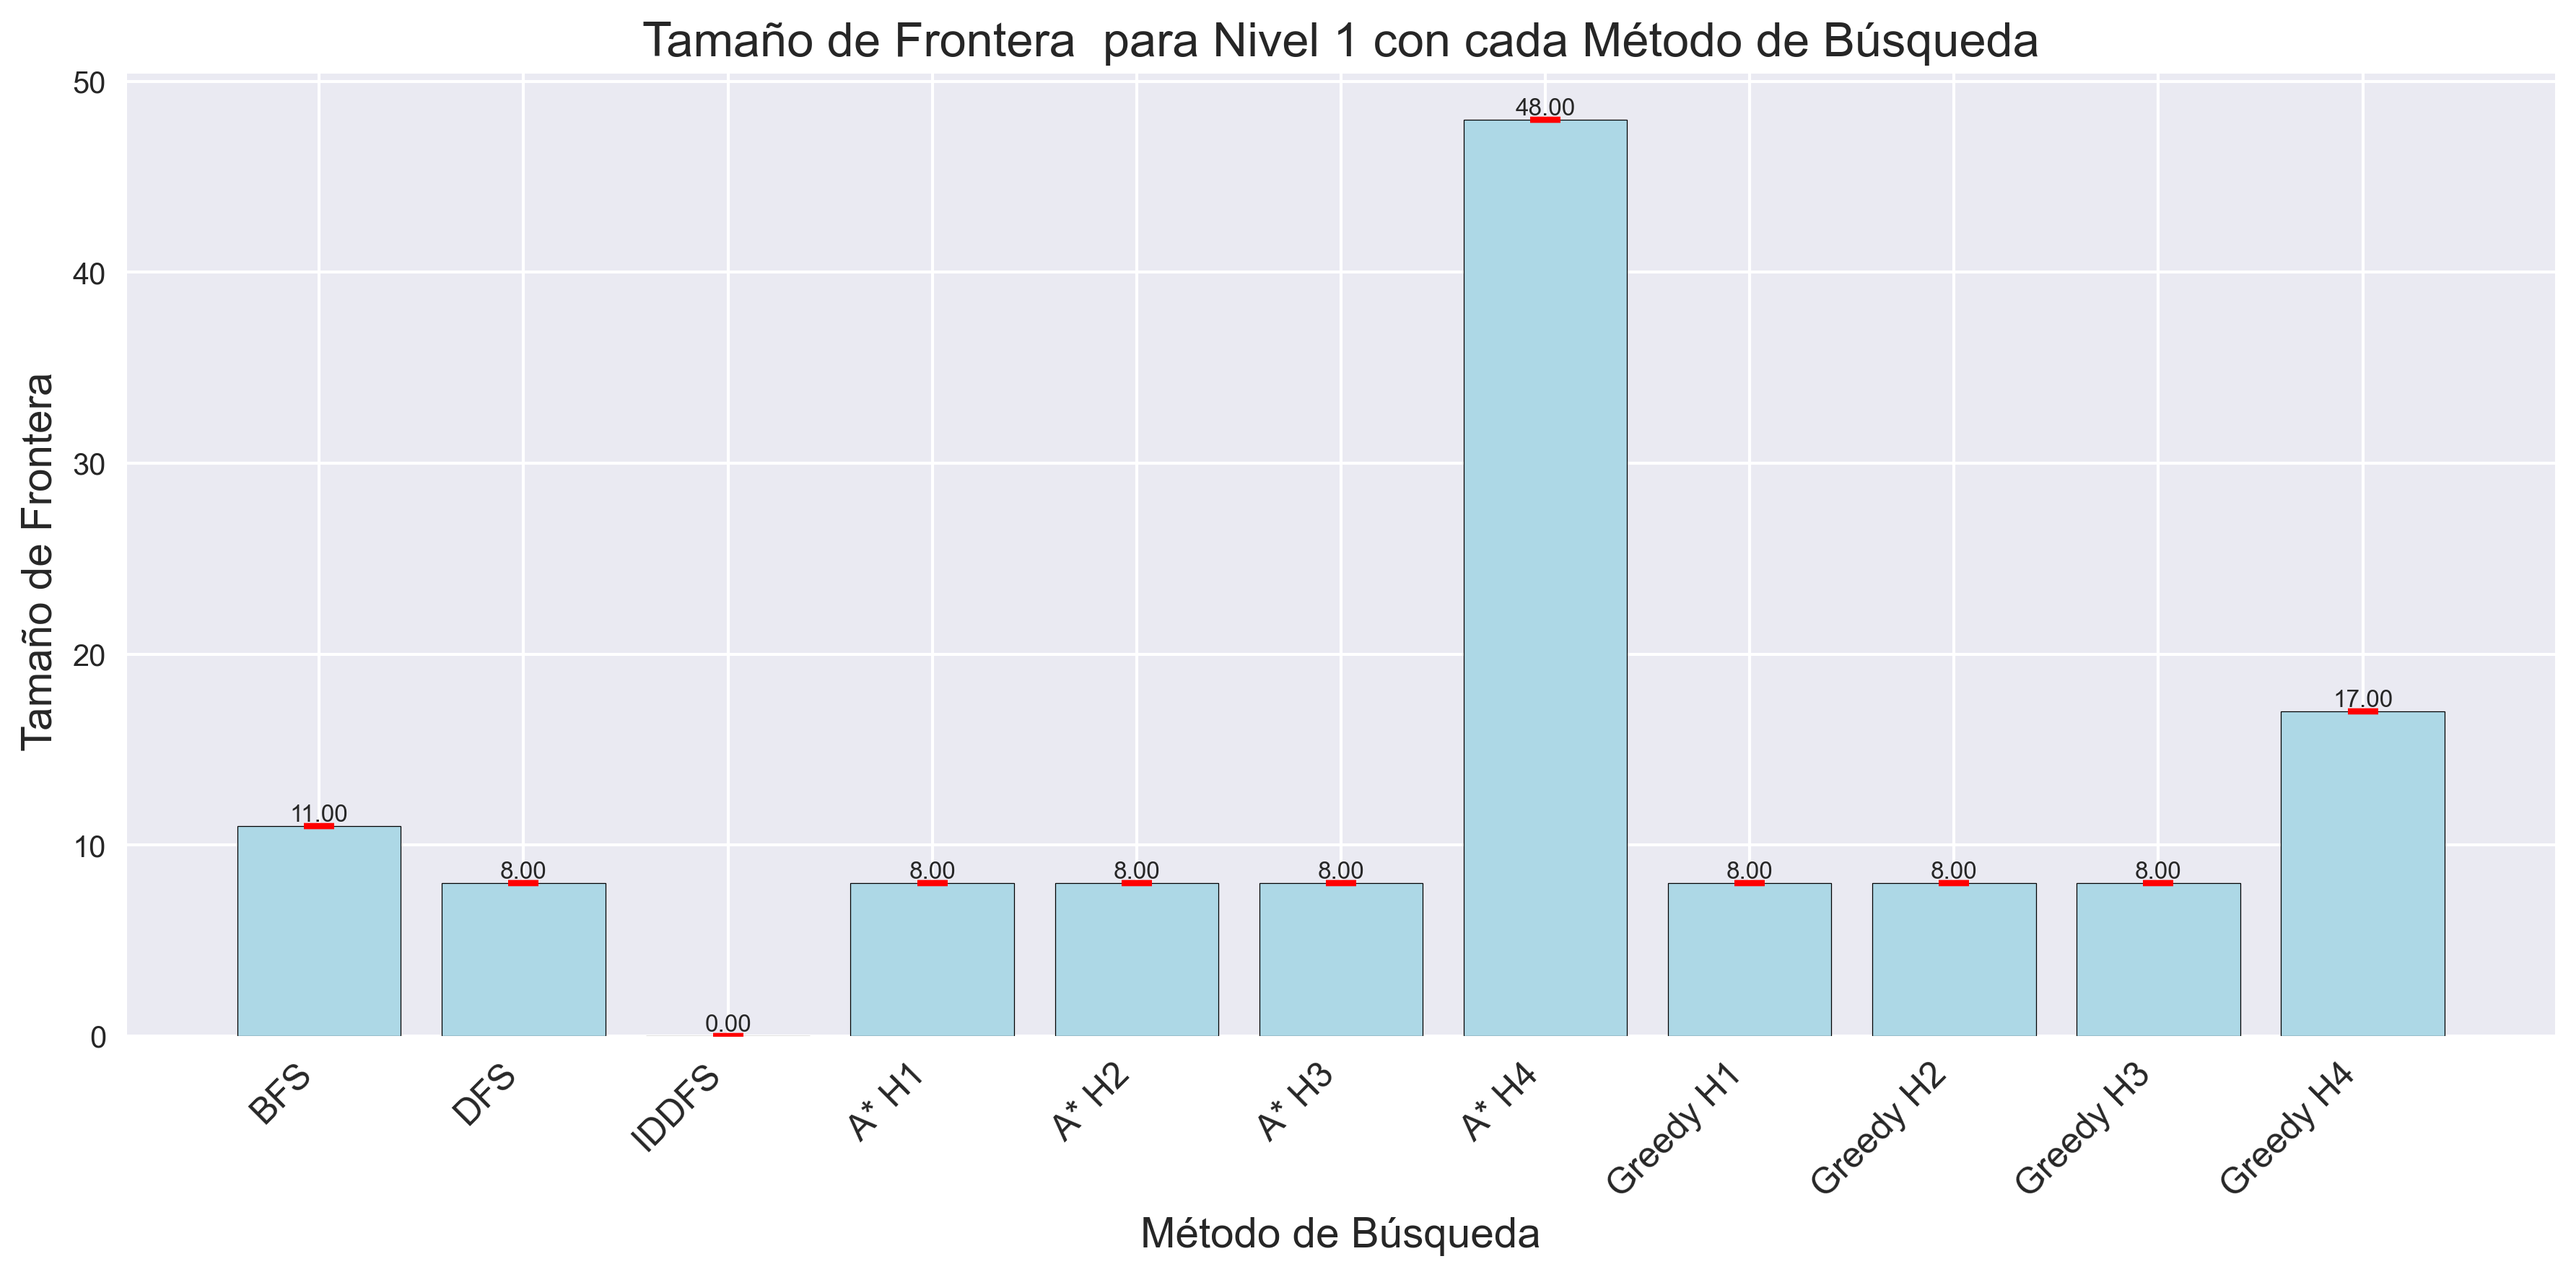
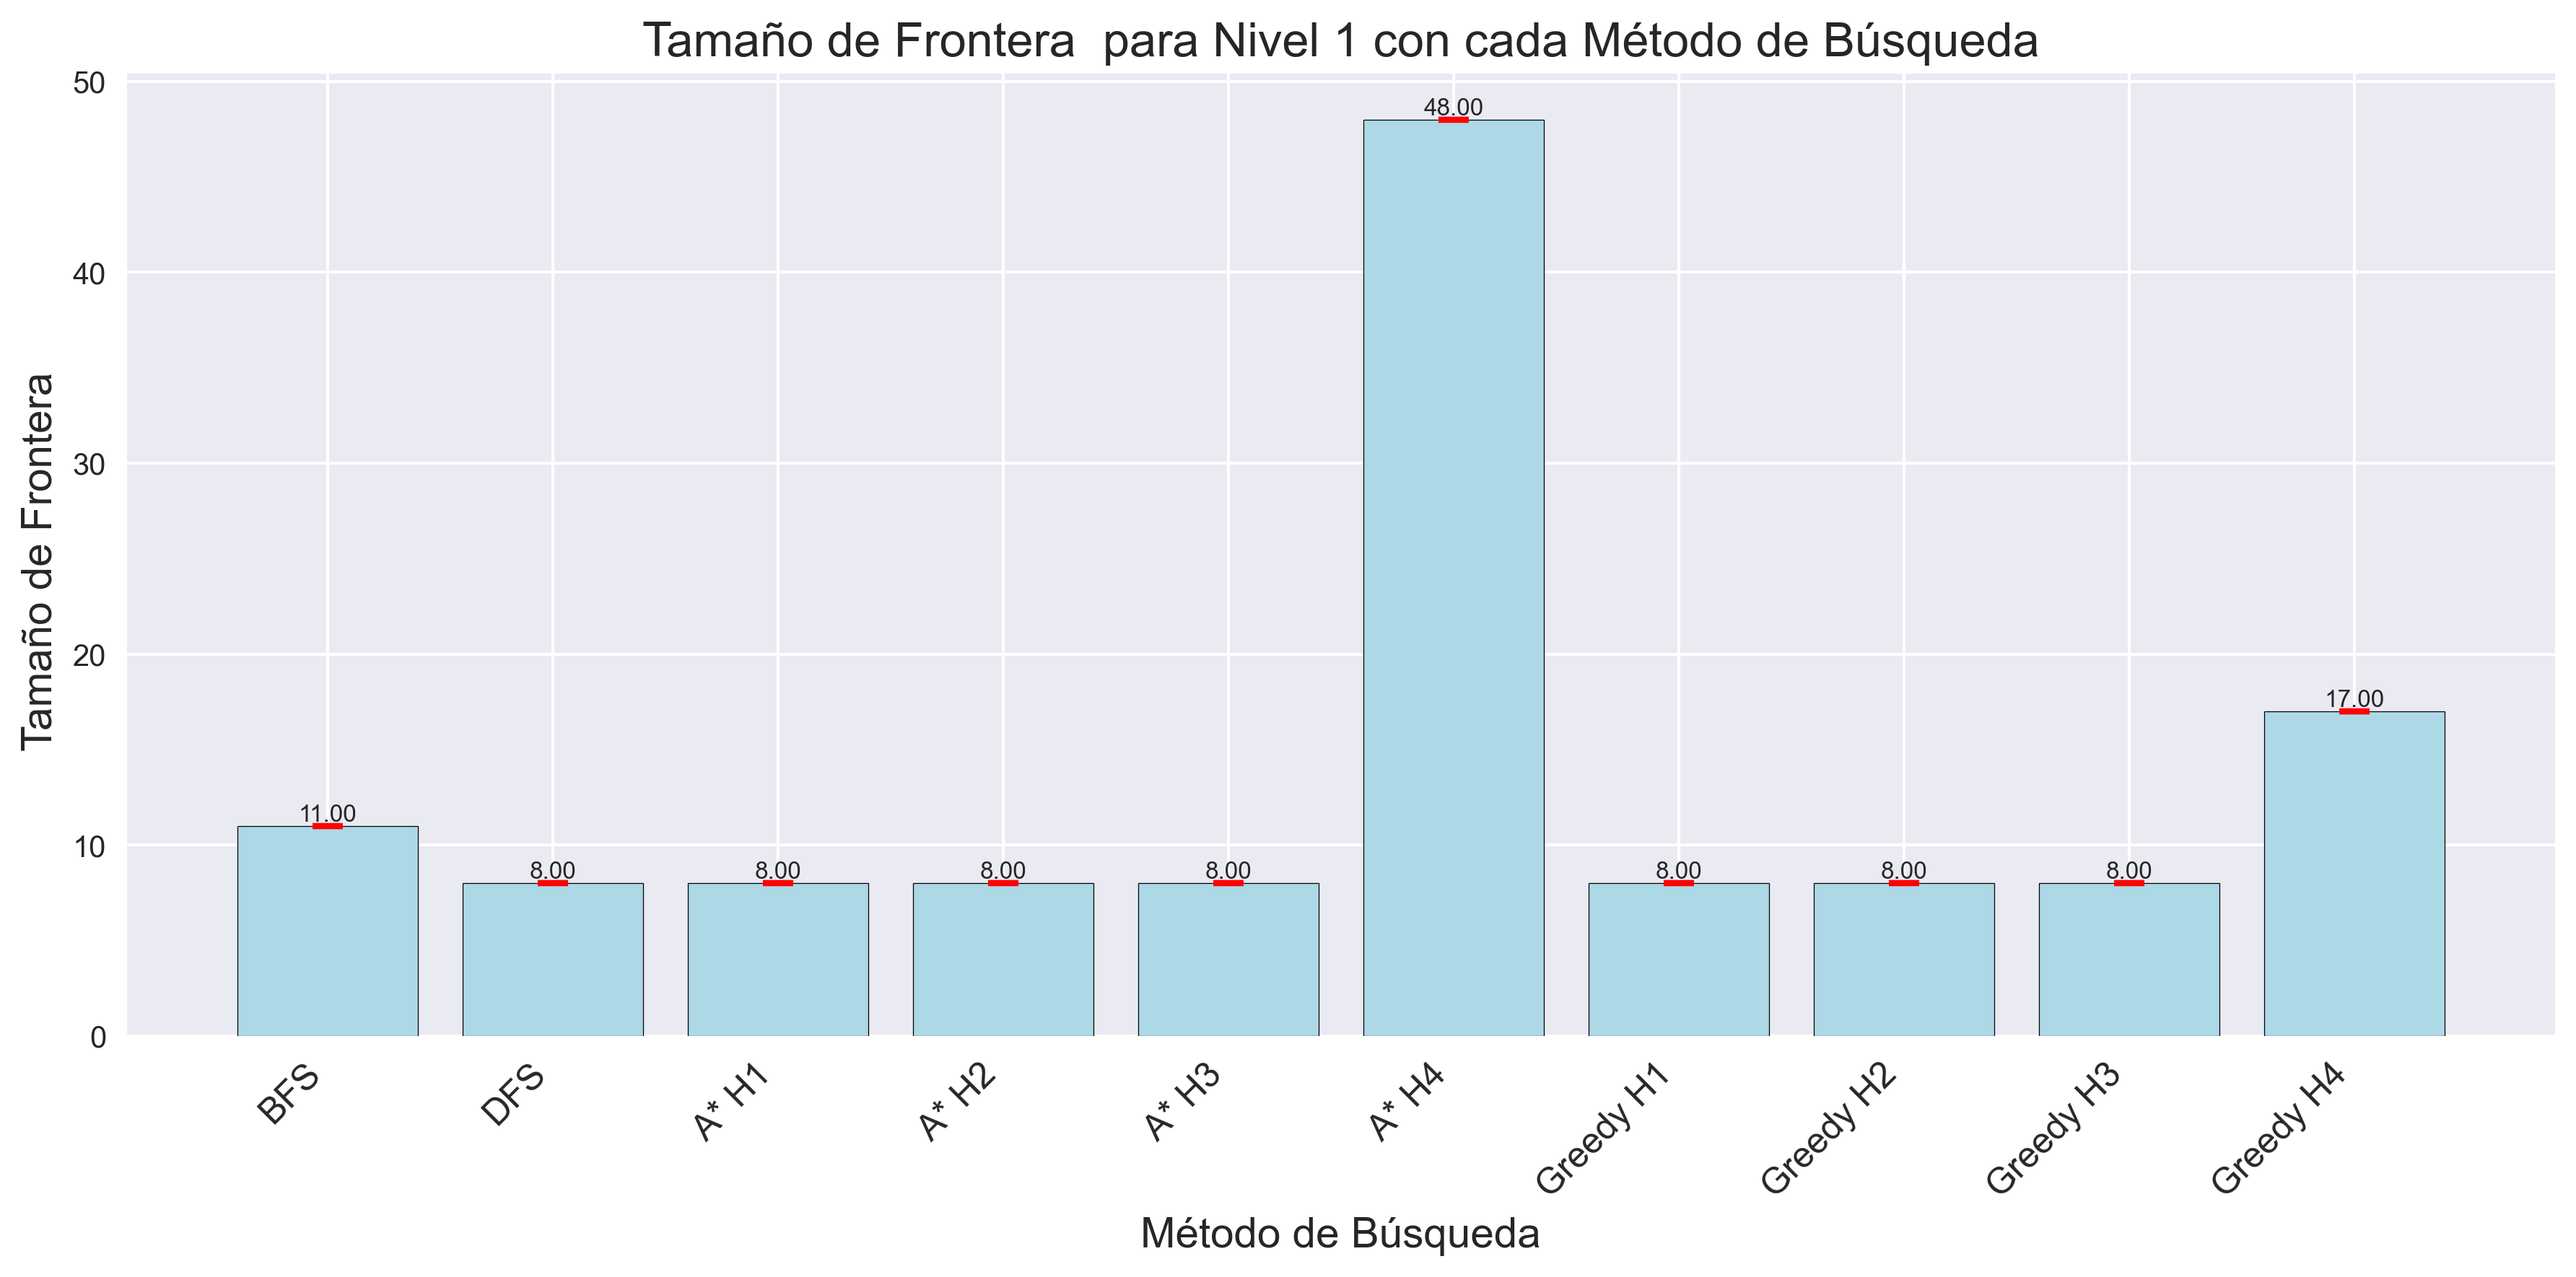
Changes, IDDFS removed from graphics.

diff --git a/TP1/sokoban_solver/src/search.py b/TP1/sokoban_solver/src/search.py
@@ -108,55 +108,55 @@ def greedy(initial_state, heuristic):
             print(f"Greedy: Nodos explorados: {nodes_expanded}, Tamaño de la frontera: {len(frontier)}")
 
     return None, nodes_expanded, 0
+import time
 
-def iddfs(initial_state, max_depth=1000, time_limit=300, depth_step=10):
+def iddfs(initial_state, max_depth=100, time_limit=300):
     start_time = time.time()
     total_nodes_expanded = 0
-    visited = set()
-    limit_nodes = []
-    cur_max_depth = depth_step
-
-    while cur_max_depth <= max_depth:
+    
+    for depth_limit in range(1, max_depth + 1):
         if time.time() - start_time > time_limit:
-            print(f"Tiempo límite excedido en IDDFS después de explorar hasta profundidad {cur_max_depth}")
-            return None, total_nodes_expanded, len(limit_nodes)
-
-        print(f"IDDFS: Explorando profundidad {cur_max_depth}")
-        result, nodes_expanded = _dfs(initial_state, 0, cur_max_depth, visited, limit_nodes)
-        total_nodes_expanded += nodes_expanded
-
-        if result is not None:
-            return result, total_nodes_expanded, len(limit_nodes)
-        
-        if not limit_nodes:
-            print(f"IDDFS: No hay más nodos para explorar. Profundidad máxima alcanzada: {cur_max_depth}")
+            print(f"Tiempo límite excedido en IDDFS después de explorar hasta profundidad {depth_limit - 1}")
             return None, total_nodes_expanded, 0
-
-        cur_max_depth += depth_step
-        visited.clear()
-        limit_nodes.clear()
-
-    print(f"IDDFS: Profundidad máxima {max_depth} alcanzada sin encontrar solución")
-    return None, total_nodes_expanded, len(limit_nodes)
-
-def _dfs(state, depth, max_depth, visited, limit_nodes):
-    if state.is_goal():
-        return [state], 1
-
-    if depth >= max_depth:
-        limit_nodes.append(state)
-        return None, 1
-
-    state_hash = hash(state)
-    if state_hash in visited:
-        return None, 1
-    visited.add(state_hash)
-
-    nodes_expanded = 1
-    for next_state in state.get_successors():
-        result, sub_nodes = _dfs(next_state, depth + 1, max_depth, visited, limit_nodes)
-        nodes_expanded += sub_nodes
+        
+        result, nodes_expanded = depth_limited_search(initial_state, depth_limit)
+        total_nodes_expanded += nodes_expanded
+        
         if result is not None:
-            return [state] + result, nodes_expanded
+            print(f"Solución encontrada a profundidad {depth_limit}")
+            return reconstruct_path(result), total_nodes_expanded, 0
+        
+        if time.time() - start_time > time_limit:
+            print(f"Tiempo límite excedido en IDDFS después de explorar hasta profundidad {depth_limit}")
+            return None, total_nodes_expanded, 0
+    
+    print(f"No se encontró solución dentro de la profundidad máxima {max_depth}")
+    return None, total_nodes_expanded, 0
 
+def depth_limited_search(initial_state, depth_limit):
+    stack = [(initial_state, 0)]  # (estado, profundidad)
+    visited = set()
+    nodes_expanded = 0
+    
+    while stack:
+        state, depth = stack.pop()
+        
+        if depth > depth_limit:
+            continue
+        
+        if state.is_goal():
+            return state, nodes_expanded
+        
+        state_hash = hash(state)
+        if state_hash in visited:
+            continue
+        
+        visited.add(state_hash)
+        nodes_expanded += 1
+        
+        if depth < depth_limit:
+            for successor in state.get_successors():
+                if hash(successor) not in visited:
+                    stack.append((successor, depth + 1))
+    
     return None, nodes_expanded

diff --git a/TP1/sokoban_solver/main.py b/TP1/sokoban_solver/main.py
@@ -74,9 +74,9 @@ def main():
             else:
                 print(f"Paso {i}:")
                 print(state)
-       # visualizer = Visualizer(initial_state.width, initial_state.height)
-       # visualizer.set_delay(2.0)  # Establece un retraso de 2 segundos entre cada paso
-       # visualizer.visualize_solution(solution)
+        visualizer = Visualizer(initial_state.width, initial_state.height)
+        visualizer.set_delay(2.0)  # Establece un retraso de 2 segundos entre cada paso
+        visualizer.visualize_solution(solution)
     else:
         print("No se encontró solución.")
 

diff --git a/TP1/sokoban_solver/multiple_run.py b/TP1/sokoban_solver/multiple_run.py
@@ -34,8 +34,10 @@ def run_main(level, algorithm, heuristic=None):
     subprocess.run(['python', main_py_path], cwd=SCRIPT_DIR, check=True)
 
 def main():
-    levels = ['level1', 'level2', 'level3','impossible']
-    algorithms = ['bfs', 'dfs', 'iddfs', 'greedy', 'astar']
+    levels = ['level1', 'level2', 'level3']
+   # algorithms = ['bfs', 'dfs', 'iddfs', 'greedy', 'astar']
+    algorithms = ['iddfs']
+
     heuristics = ['h1_heuristic', 'h2_heuristic', 'h3_heuristic', 'h4_heuristic']
     iterations = 10
 

diff --git a/TP1/sokoban_solver/sokoban_histogram_analysys.py b/TP1/sokoban_solver/sokoban_histogram_analysys.py
@@ -53,7 +53,7 @@ def create_refined_graphs(df):
              'greedy_h1_heuristic', 'greedy_h2_heuristic', 'greedy_h3_heuristic', 'greedy_h4_heuristic']
 
     method_labels = {
-        'bfs': 'BFS', 'dfs': 'DFS', 'iddfs': 'IDDFS',
+        'bfs': 'BFS', 'dfs': 'DFS', 
         'astar_h1_heuristic': 'A* H1', 'astar_h2_heuristic': 'A* H2',
         'astar_h3_heuristic': 'A* H3', 'astar_h4_heuristic': 'A* H4',
         'greedy_h1_heuristic': 'Greedy H1', 'greedy_h2_heuristic': 'Greedy H2',

diff --git a/TP1/sokoban_solver/README.md b/TP1/sokoban_solver/README.md
@@ -19,7 +19,6 @@ Hemos implementado tanto métodos de búsqueda informados como desinformados:
 - **Métodos desinformados**:  
   - BFS (Breadth-First Search)  
   - DFS (Depth-First Search)  
-  - IDDFS (Iterative Deepening Depth-First Search) con una profundidad máxima de 1000 y un límite de tiempo de 300 segundos.  
 
 - **Métodos informados**:  
   - Greedy  
